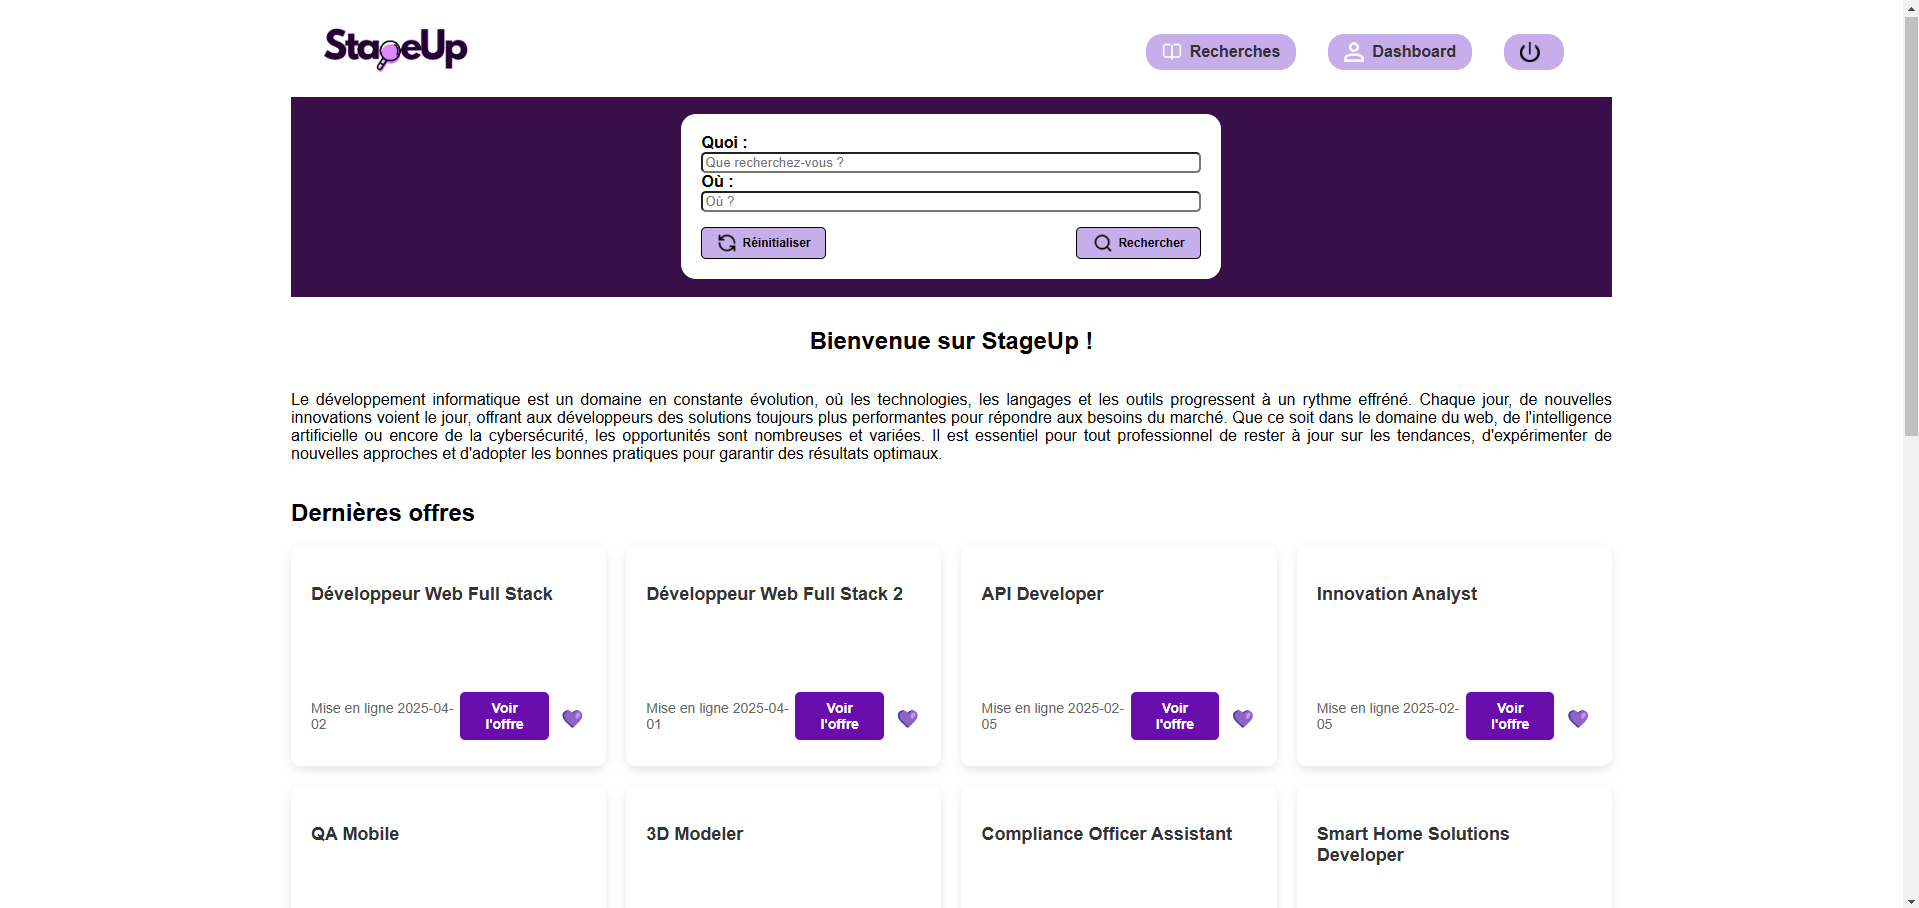
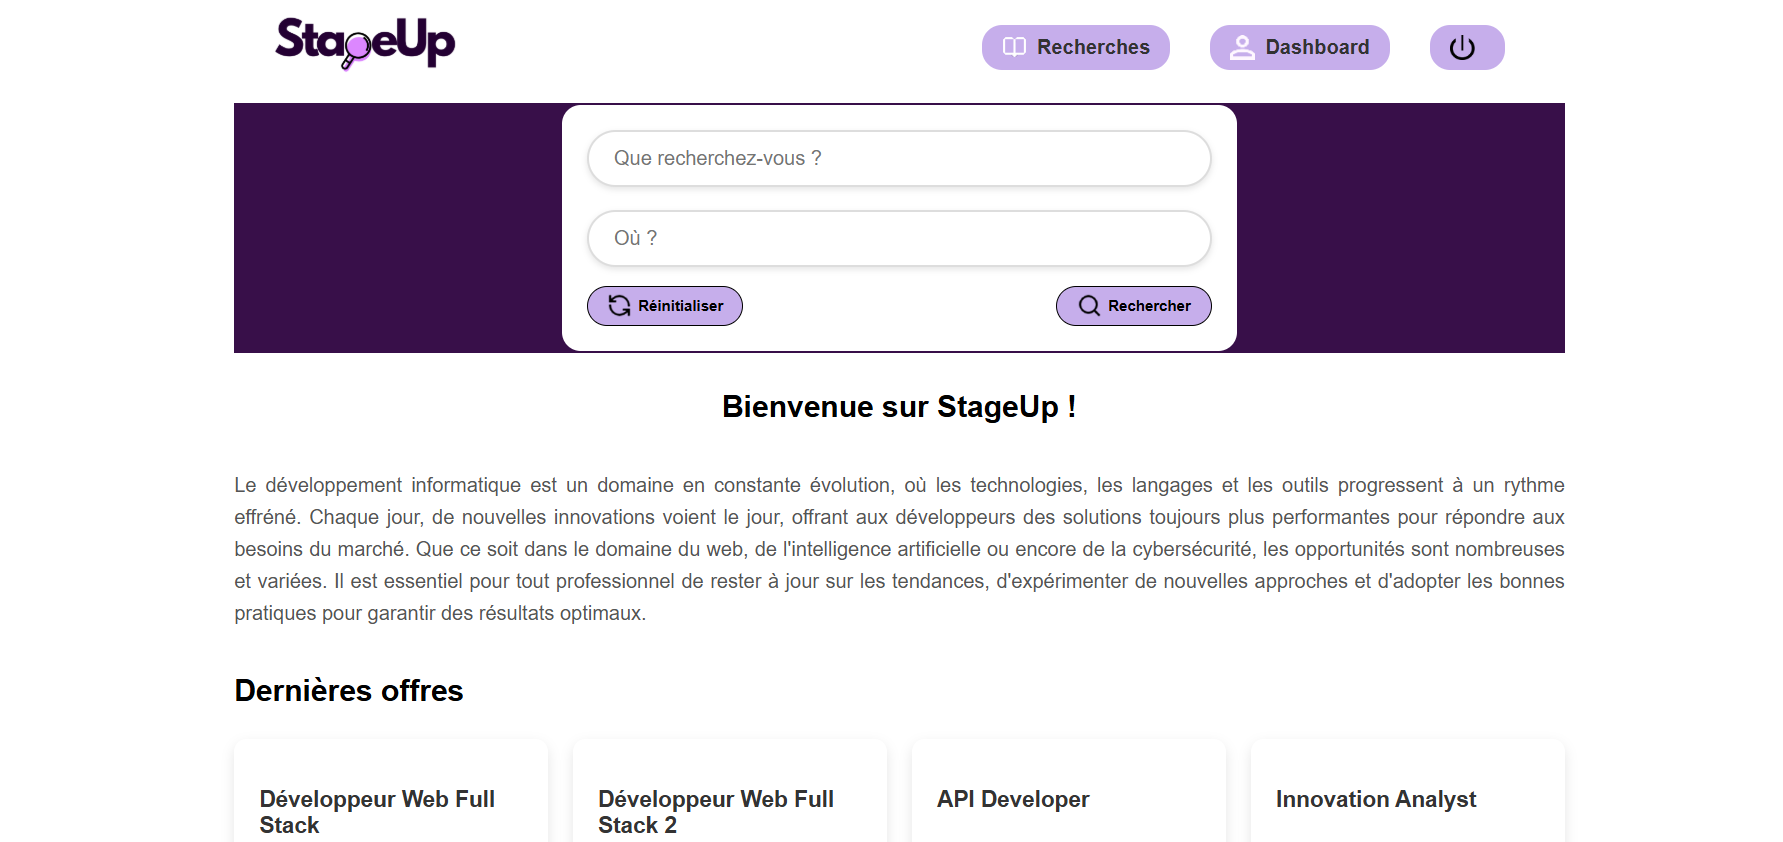
Mise à jour CSS

diff --git a/static/css/styles.css b/static/css/styles.css
@@ -265,7 +265,14 @@ h2 {
 }
 
 .recherche input {
-    border-radius: 5px;
+    flex: 1;
+    padding: 12px 20px;
+    font-size: 16px;
+    border: 2px solid #ddd;
+    border-radius: 3rem ;
+    outline: none;
+    transition: all 0.3s ease;
+    box-shadow: 0 2px 5px rgba(0,0,0,0.1);
 }
 
 .bouton_recherche {
@@ -282,7 +289,7 @@ h2 {
     border: solid 1px black;
     color: black;
     font-weight: bold;
-    border-radius: 5px;
+    border-radius: 2rem;
     font-size: 12px;
     cursor: pointer;
     transition: background 0.3s ease;
@@ -409,7 +416,7 @@ h2 {
     gap: 20px;
 }
 
-.entreprises_reconnues_conteneur p {
+.article_bienvenue p,.entreprises_reconnues_conteneur p {
     font-size: 16px;
     color: #555;
     line-height: 1.6;
@@ -666,10 +673,22 @@ textarea {
     margin: 0 15px;
 }
 
+.navbar_dashboard a:hover {
+    background-color: #550A8A;
+}
+
 .navbar_dashboard a {
     text-decoration: none;
-    color: black;
+    color: white;
     font-size: 16px;
+    background-color: #6A0DAD;
+    color: white;
+    padding: 8px 12px;
+    border-radius: 0.6rem;
+    font-weight: bold;
+    transition: 0.3s ease-in-out;
+    cursor: pointer;
+    text-align: center;
 }
 
 .contact {

diff --git a/templates/composants/menu_recherche.twig.html b/templates/composants/menu_recherche.twig.html
@@ -1,13 +1,11 @@
 <div class="menu_recherche">
     <form class="recherche" method="POST" action="/?uri=resultat_recherche">
-        <label for="quoi">Quoi :</label>
         <input type="search" id="quoi" name="quoi" placeholder="Que recherchez-vous ?" 
             required maxlength="100" pattern="^[a-zA-Z0-9À-ÿ '-]{1,100}$" autocomplete="off">
-    
-        <label for="ou">Où :</label>
+        <br>
         <input type="search" id="ou" name="ou" placeholder="Où ?" 
             required maxlength="100" pattern="^[a-zA-Z0-9À-ÿ '-]{1,100}$" autocomplete="off">
-    
+        
         <div class="bouton_recherche">
             <button type="reset" class="bouton_">
                 <img src="/static/images/refresh-ccw_1.png" alt="Réinitialiser">Réinitialiser
